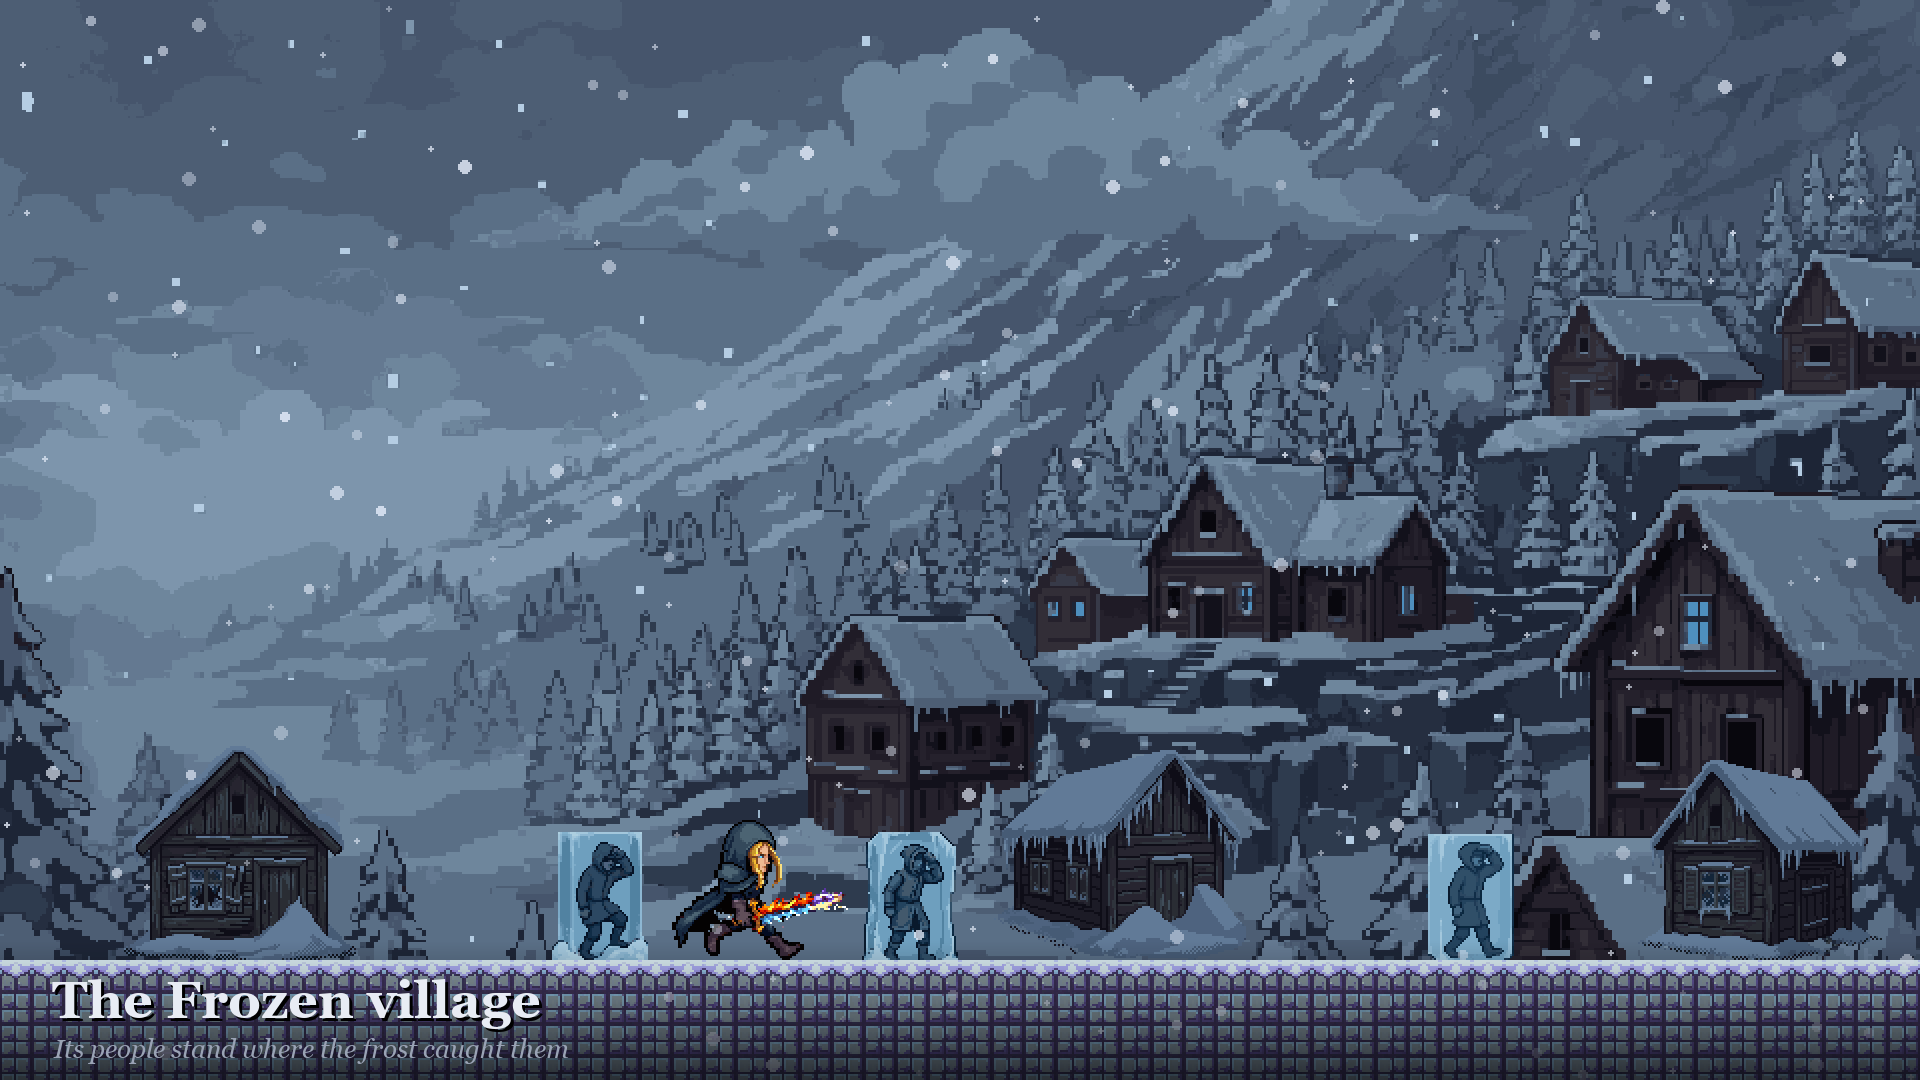
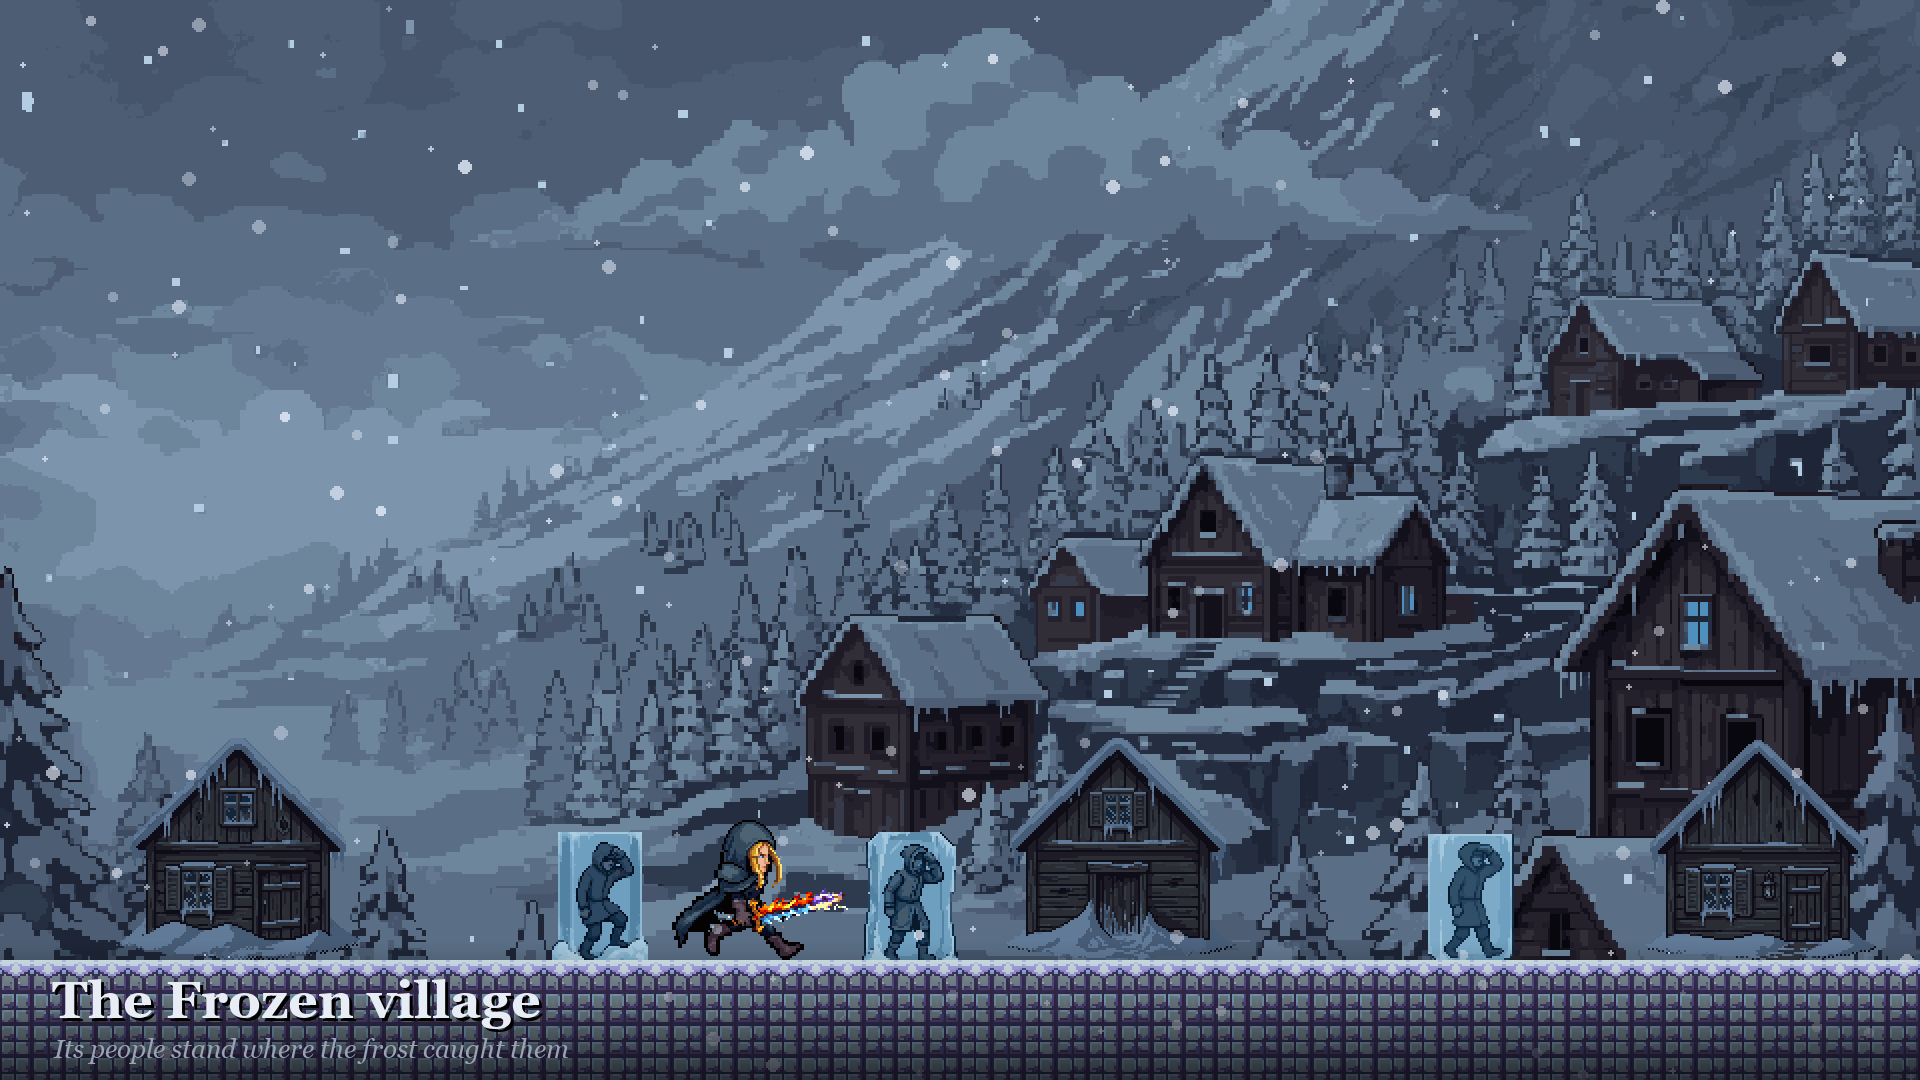
Portfolio screenshots from the real game: a capture scene that walks a stand-in Storm through rooms and boss fights and saves frames (restoring the save after), and a script that captions the picks at 1920x1080; world map image gains the Crossroads region

Changed region(s): [[0.5, 0.6722, 0.6562, 0.8861], [0.8438, 0.6722, 0.9688, 0.8861], [0.0625, 0.7028, 0.1875, 0.8861]]

diff --git a/tools/make_portfolio_shots.py b/tools/make_portfolio_shots.py
@@ -1,0 +1,84 @@
+"""Finished portfolio screenshots from the frames tools/capture.tscn saved in press/raw/.
+
+Run from the project folder:  python tools/make_portfolio_shots.py
+Each pick is a raw 960x540 frame, scaled 2x (pixels kept sharp) to 1920x1080 with a title
+in the corner, written to press/portfolio/screenshots/. Change PICKS to choose other frames.
+"""
+import os
+
+from PIL import Image, ImageDraw, ImageFont
+
+R = os.path.join(os.path.dirname(os.path.abspath(__file__)), "..") + "/"
+RAW = R + "press/raw/"
+OUT = R + "press/portfolio/screenshots/"
+os.makedirs(OUT, exist_ok=True)
+
+TEXT = (232, 236, 244)
+SUB = (170, 178, 196)
+
+# [output name, raw frame, title, subtitle]; no title for a clean shot.
+PICKS = [
+    ["01_title_screen", "title_00", None, None],
+    ["02_foothills", "landing_03", "The Foothills", "Where Storm wakes, with only the hilt"],
+    ["03_sunken_glade", "sunken_glade_03", "The Sunken glade", "The Foothills"],
+    ["04_guardian_centipede", "gate_cavern_04", "The Guardian Centipede, Risen", "Boss of the Foothills"],
+    ["05_frozen_village", "village_square_03", "The Frozen village", "Its people stand where the frost caught them"],
+    ["06_frozen_street", "frozen_street_03", "The Frozen street", "The Frozen village"],
+    ["07_icefall_hall", "icefall_hall_03", "The Icefall hall", "The Frozen village"],
+    ["08_frost_colossus", "frost_arena_03", "The Frost Colossus", "Frozen into the arena wall, the ice piece in its chest"],
+    ["09_frost_colossus_unbound", "frost_throne_07", "The Frost Colossus, Unbound", "Boss of the Frozen village"],
+    ["10_refuge", "refuge_04", "The Refuge", "The survivors' camp under the Crossroads"],
+    ["11_fire_slopes", "ashen_road_03", "The Fire slopes", "The burned village"],
+    ["12_ashen_drake", "forge_08", "The Ashen Drake", "Asleep in the great forge, the fire piece through its wing"],
+    ["13_ashen_drake_unbound", "drake_roost_09", "The Ashen Drake, Unbound", "Boss of the Fire slopes"],
+    ["14_drake_roost", "drake_roost_04", "The Drake's roost", "The Fire slopes"],
+    ["15_lightning_peaks", "storm_bridges_03", "The Lightning peaks", "Rain, wind and lightning"],
+    ["16_rod_field", "rod_field_03", "The Rod field", "The Lightning peaks"],
+    ["17_stormcaller_bound", "spire_06", "The Stormcaller, Bound", "Chained in the Spire by the lightning tip"],
+    ["18_stormcaller", "thunder_eyrie_15", "The Stormcaller", "Boss of the Lightning peaks"],
+    ["19_stormcaller_eyrie", "thunder_eyrie_12", "The Thunder eyrie", "The Lightning peaks"],
+    ["20_last_stand", "high_pass_04", "The Last Stand", "The summit battlefield under the castle gate"],
+]
+
+
+def font(size, face):
+    return ImageFont.truetype("C:/Windows/Fonts/" + face, size)
+
+
+def caption(im, title, sub):
+    band = Image.new("RGBA", im.size)
+    d = ImageDraw.Draw(band)
+    for i in range(170):
+        d.line((0, im.height - i, im.width, im.height - i), fill=(5, 7, 12, int(200 * (1 - i / 170))))
+    im.alpha_composite(band)
+    d = ImageDraw.Draw(im)
+    y = im.height - (118 if sub else 86)
+    d.text((55, y + 3), title, font=font(52, "georgiab.ttf"), fill=(0, 0, 0, 190))
+    d.text((52, y), title, font=font(52, "georgiab.ttf"), fill=TEXT)
+    if sub:
+        d.text((55, y + 66), sub, font=font(26, "georgiai.ttf"), fill=(0, 0, 0, 190))
+        d.text((54, y + 64), sub, font=font(26, "georgiai.ttf"), fill=SUB)
+
+
+for name, raw, title, sub in PICKS:
+    path = RAW + raw + ".png"
+    if not os.path.exists(path):
+        print("missing", raw)
+        continue
+    im = Image.open(path).convert("RGBA").resize((1920, 1080), Image.NEAREST)
+    im.convert("RGB").save(OUT + name + "_clean.png")
+    if title:
+        caption(im, title, sub)
+        im.convert("RGB").save(OUT + name + ".png")
+    print(name)
+
+# A contact sheet of every pick, for a gallery overview.
+files = [OUT + p[0] + ".png" if p[2] else OUT + p[0] + "_clean.png" for p in PICKS]
+files = [f for f in files if os.path.exists(f)]
+cols, w, h, gap = 4, 480, 270, 12
+rows = (len(files) + cols - 1) // cols
+sheet = Image.new("RGB", (cols * (w + gap) + gap, rows * (h + gap) + gap), (10, 12, 18))
+for i, f in enumerate(files):
+    sheet.paste(Image.open(f).resize((w, h), Image.LANCZOS), (gap + (i % cols) * (w + gap), gap + (i // cols) * (h + gap)))
+sheet.save(OUT + "00_overview.png")
+print("00_overview", sheet.size)

diff --git a/tools/make_portfolio_images.py b/tools/make_portfolio_images.py
@@ -159,7 +159,8 @@ for name, body in re.findall(r'"(\w+)":\s*\[(.*?)\n\t\]', gd_block("LAYOUTS"), r
     LAYOUTS[name] = re.findall(r'"([^"\n]*)"', body)
 REGION_OF = {}
 for key, region in [("FOREST_ROOMS", "foothills"), ("CAVE_ROOMS", "foothills"), ("ICE_ROOMS", "ice"),
-                    ("FIRE_ROOMS", "fire"), ("STORM_ROOMS", "storm")]:
+                    ("FIRE_ROOMS", "fire"), ("STORM_ROOMS", "storm"),
+                    ("CROSS_ROOMS", "cross"), ("SUMMIT_ROOMS", "cross")]:
     for room in re.findall(r'"(\w+)"', gd_block(key)):
         REGION_OF[room] = region
 
@@ -241,10 +242,11 @@ REGION_COLORS = {
     "ice": ((27, 39, 52), (127, 179, 216)),
     "fire": ((46, 32, 25), (208, 135, 90)),
     "storm": ((38, 33, 58), (185, 164, 236)),
+    "cross": ((42, 39, 32), (214, 197, 140)),
     "other": ((29, 35, 48), (111, 122, 144)),
 }
-REGION_NAMES = [("foothills", "Foothills"), ("ice", "Frozen village"), ("fire", "Fire slopes"),
-                ("storm", "Lightning peaks")]
+REGION_NAMES = [("foothills", "Foothills"), ("ice", "Frozen village"), ("cross", "Crossroads"),
+                ("fire", "Fire slopes"), ("storm", "Lightning peaks")]
 
 
 def world_map():
@@ -281,10 +283,10 @@ def world_map():
                     d.regular_polygon((cx, cy - 2, 9), 4, rotation=45, fill=(240, 96, 96), outline=(255, 220, 220))
     d.text((70, 52), "World map", font=font(56, "georgiab.ttf"), fill=TEXT)
     for i, (key, label) in enumerate(REGION_NAMES):
-        at = (72 + i * 260, 136)
+        at = (72 + i * 250, 136)
         d.rectangle((at[0], at[1], at[0] + 24, at[1] + 20), fill=REGION_COLORS[key][0], outline=REGION_COLORS[key][1], width=2)
         d.text((at[0] + 36, at[1] - 4), label, font=font(26), fill=SUB)
-    lx = 72 + 4 * 260
+    lx = 72 + 5 * 250
     d.ellipse((lx, 140, lx + 14, 154), fill=(159, 230, 255))
     d.text((lx + 26, 132), "Rest shrine", font=font(26), fill=SUB)
     d.regular_polygon((lx + 230, 147, 10), 4, rotation=45, fill=(240, 96, 96), outline=(255, 220, 220))

diff --git a/HANDOFF.md b/HANDOFF.md
@@ -26,6 +26,11 @@ controls are in `README.md`.
 - `tools/check_reach.py`: reachability check (jump, double jump, wall climb, shockline,
   slide limits) for the fire and lightning regions' gates and secrets.
 - `tools/make_sfx.py`: synthesizes every sound effect into `audio/sfx/`.
+- `tools/capture.tscn` (+ `capture.gd`): portfolio screenshots. Runs the game windowed with an
+  invulnerable stand-in Storm through chosen rooms and boss fights (muted), saving bursts of
+  frames to `press/raw/` (git-ignored); it puts the save back as it found it. Storm asked for
+  this for the portfolio, so running it is fine. `tools/make_portfolio_shots.py` then turns
+  the picked frames into captioned 1920x1080 images in `press/portfolio/screenshots/`.
 - PixelLab (MCP) for art: about 320 generations left this cycle (resets 2026-10-29).
   Bases for animating Storm are in `art/concepts/bases/` and are fetched from the raw
   GitHub URL, so push a base before animating from it.
